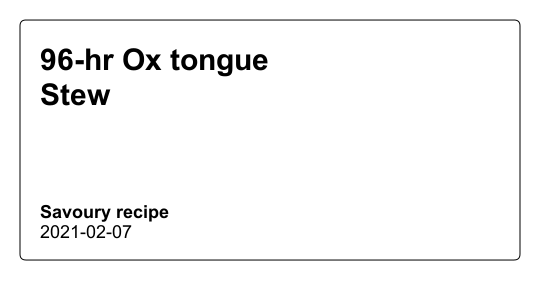
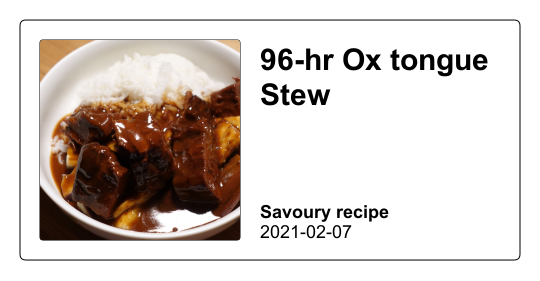
update preview image

Changed region(s): [[0.0593, 0.1139, 0.9185, 0.8826], [0.4741, 0.7117, 0.7407, 0.8541], [0.4741, 0.2847, 0.6222, 0.3986]]

diff --git a/server.js b/server.js
@@ -71,7 +71,7 @@ allRecipes.forEach((post) => {
     roundRect(context, 40, 40, 200, 200, 3, "#fff", true);
     context.clip();
 
-    loadImage(`./public/${post.image[0]}`).then((image) => {
+    loadImage(`./public/assets/recipe/${post.image[0]}`).then((image) => {
       context.drawImage(image, 40, 40, 200, 200);
       const buffer = cnvs.toBuffer("image/png");
 
